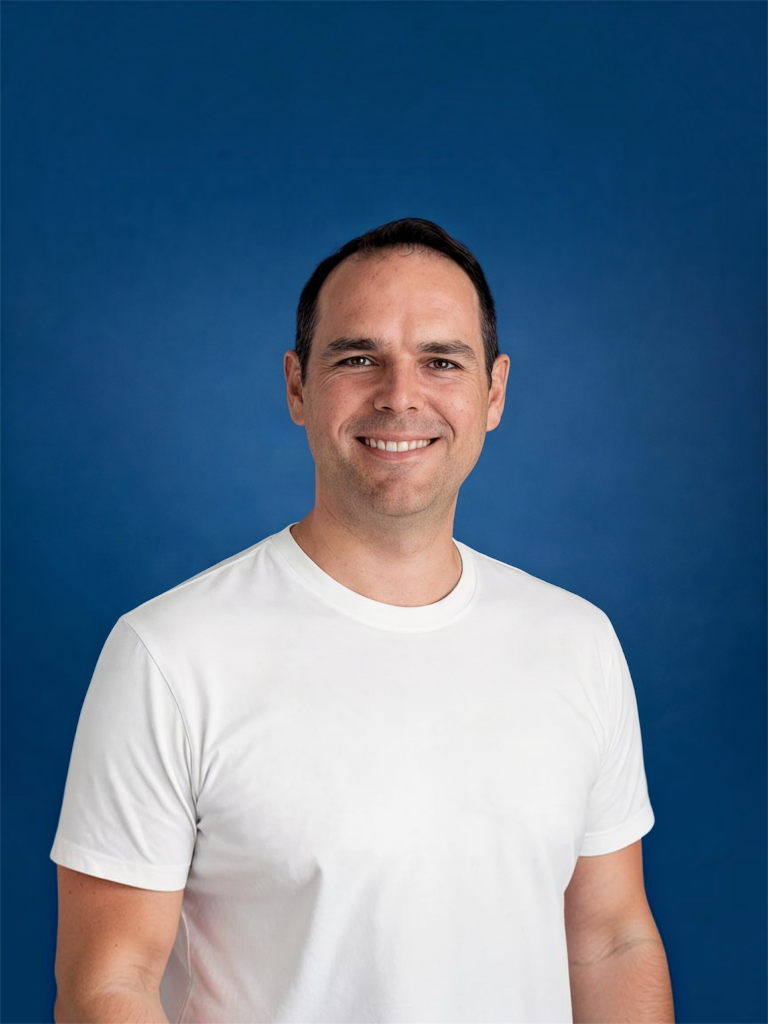
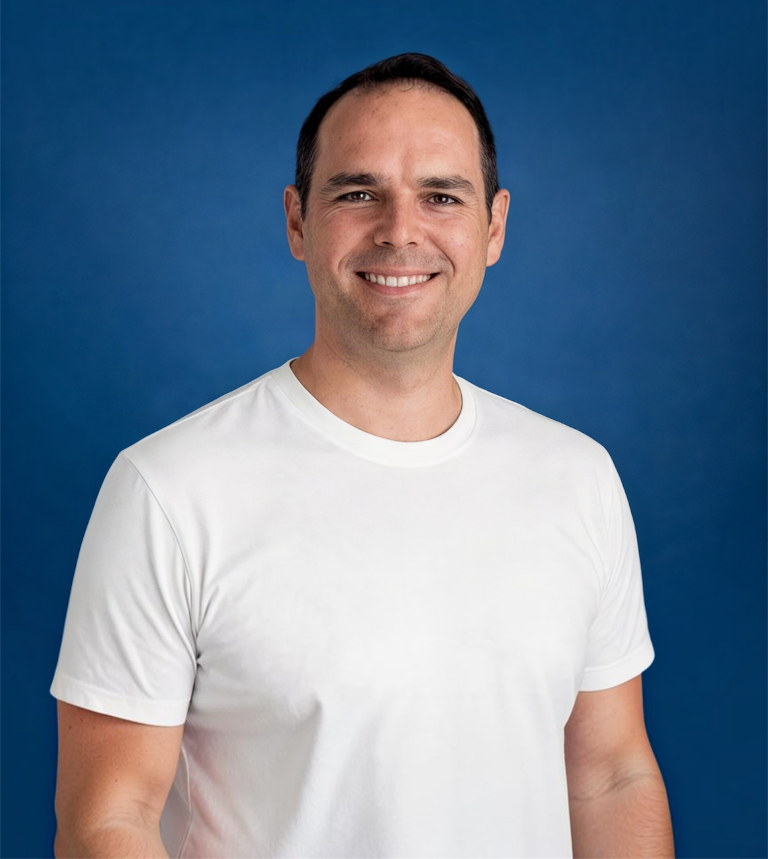
Mover slide de Enrique Bay a docs/semblanzas, registrar recorte de imagen y calibrar escala en Speakers.jsx

Changed region(s): [[0.0625, 0.0605, 0.875, 0.9686], [0.1562, 0.908, 0.1875, 0.9383]]

diff --git a/src/components/Speakers.jsx b/src/components/Speakers.jsx
@@ -1103,12 +1103,10 @@ const speakersData = [
   },
   {
     img: "/speakers/enrique-bay.png",
-    imgPosition: "center 20%",
-    imgScale: "1.45",
-    imgOffsetY: "-25px",
-    collagePosition: "center 20%",
-    collageScale: "1.45",
-    collageOffsetY: "-20px",
+    imgPosition: "center 15%",
+    imgScale: "1.15",
+    collagePosition: "center 15%",
+    collageScale: "1.15",
     initials: "EB",
     name: "Enrique Bay",
     company: "Fresh Consulting",
